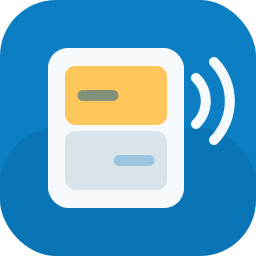
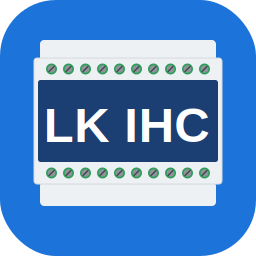
Brand: the mark is now a DIN-rail IHC module with its label
Drawn as vectors in tools/build_brand.py after a raster the owner liked, so it
stays crisp at 48 px and the wide logo comes from the same shapes. The README
diagram's accent follows the new blue. Graphics only; no version change.

Claude-Session: https://claude.ai/code/session_01L1PekEUzfDPnbwaan4jDsj

diff --git a/tools/build_brand.py b/tools/build_brand.py
@@ -23,37 +23,43 @@ ROOT = Path(__file__).resolve().parents[1]
 BRAND_DIR = ROOT / "custom_components" / "lk_ihc" / "brand"
 DOCS_DIR = ROOT / "docs" / "img"
 
-FONT = "-apple-system, BlinkMacSystemFont, 'Segoe UI', Helvetica, Arial, sans-serif"
+FONT = "'Liberation Sans', -apple-system, BlinkMacSystemFont, 'Segoe UI', Helvetica, Arial, sans-serif"
 
-# The mark: a wall plate with two keys, the left one pressed, and the press leaving as a signal.
-# It has to read at 48 pixels, so it is four shapes and nothing else.
-BLUE = "#0b7ec4"
-BLUE_DARK = "#075d92"
-PLATE = "#f7fafc"
-KEY = "#d9e3ea"
-KEY_PRESSED = "#ffc65c"
-SIGNAL = "#ffffff"
+# The mark: a DIN-rail IHC module - the box every installation has rows of - with its terminals
+# and its name on the label. Flat on purpose: it has to read at 48 pixels, where shading only blurs.
+BLUE = "#1c73d9"
+NAVY = "#1c3f73"
+BODY = "#eef1f4"
+BODY_EDGE = "#d3d9df"
+SCREW_RING = "#2f9d5c"
+SCREW = "#8d9399"
+SLOT = "#3f4449"
+LABEL = "#ffffff"
+
+
+def _screws(cy: int) -> str:
+    """One row of ten terminal screws, centred on cy."""
+    return "".join(
+        f'<circle cx="{cx}" cy="{cy}" r="11" fill="{SCREW_RING}"/>'
+        f'<circle cx="{cx}" cy="{cy}" r="7.5" fill="{SCREW}"/>'
+        f'<path d="M{cx - 5} {cy + 5} L{cx + 5} {cy - 5}" stroke="{SLOT}" stroke-width="2.6" stroke-linecap="round"/>'
+        for cx in range(103, 410, 34)
+    )
 
 
 def mark(size: int, *, background: bool = True) -> str:
     """Return the icon as SVG at the given size. The drawing is laid out on a 512 grid."""
-    bg = (
-        f'<rect width="512" height="512" rx="112" fill="{BLUE}"/>'
-        f'<rect y="256" width="512" height="256" rx="112" fill="{BLUE_DARK}" opacity="0.25"/>'
-        if background
-        else ""
-    )
+    bg = f'<rect width="512" height="512" rx="112" fill="{BLUE}"/>' if background else ""
     return f"""<svg xmlns="http://www.w3.org/2000/svg" width="{size}" height="{size}" viewBox="0 0 512 512">
   {bg}
-  <rect x="96" y="96" width="272" height="320" rx="40" fill="{PLATE}"/>
-  <rect x="130" y="132" width="204" height="118" rx="20" fill="{KEY_PRESSED}"/>
-  <rect x="130" y="262" width="204" height="118" rx="20" fill="{KEY}"/>
-  <path d="M166 191 h60" stroke="{BLUE_DARK}" stroke-width="22" stroke-linecap="round" opacity="0.5"/>
-  <path d="M238 321 h60" stroke="{BLUE}" stroke-width="22" stroke-linecap="round" opacity="0.3"/>
-  <g fill="none" stroke="{SIGNAL}" stroke-width="20" stroke-linecap="round" opacity="0.95">
-    <path d="M392 156 a64 64 0 0 1 0 92"/>
-    <path d="M428 124 a112 112 0 0 1 0 156"/>
-  </g>
+  <rect x="80" y="80" width="352" height="44" rx="8" fill="{BODY}"/>
+  <rect x="80" y="364" width="352" height="48" rx="8" fill="{BODY}"/>
+  <rect x="68" y="116" width="376" height="252" rx="6" fill="{BODY}" stroke="{BODY_EDGE}" stroke-width="2"/>
+  <rect x="76" y="160" width="360" height="164" rx="5" fill="{NAVY}"/>
+  {_screws(138)}
+  {_screws(346)}
+  <text x="256" y="284" font-family="{FONT}" font-size="98" font-weight="700" fill="{LABEL}"
+    text-anchor="middle" letter-spacing="1">LK IHC</text>
 </svg>
 """
 
@@ -94,7 +100,7 @@ LIGHT = Palette(
     "#d0d7de",
     "#1f2328",
     "#59636e",
-    "#0b7ec4",
+    "#1c73d9",
     "#ffffff",
     "#ddf4ff",
     "#0a3069",
